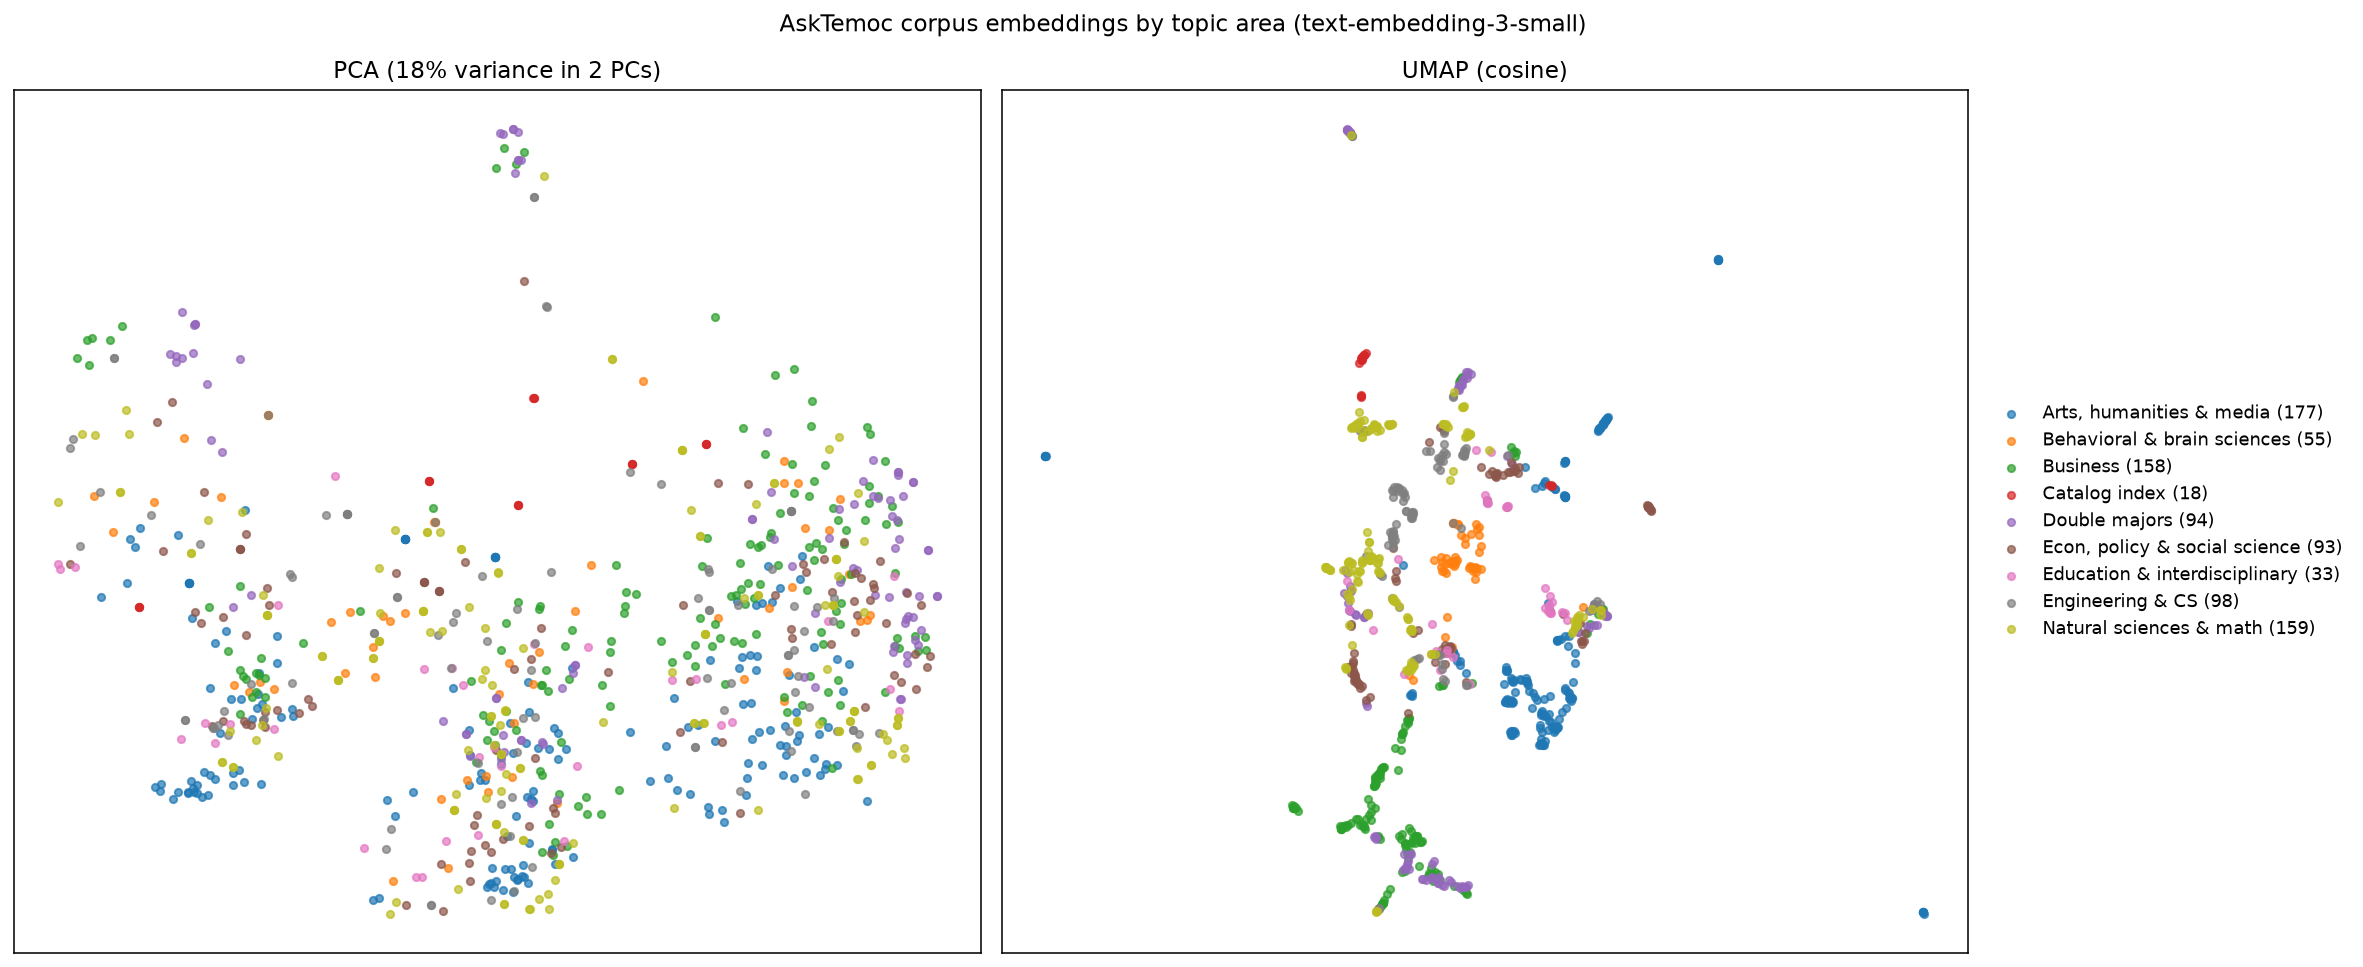
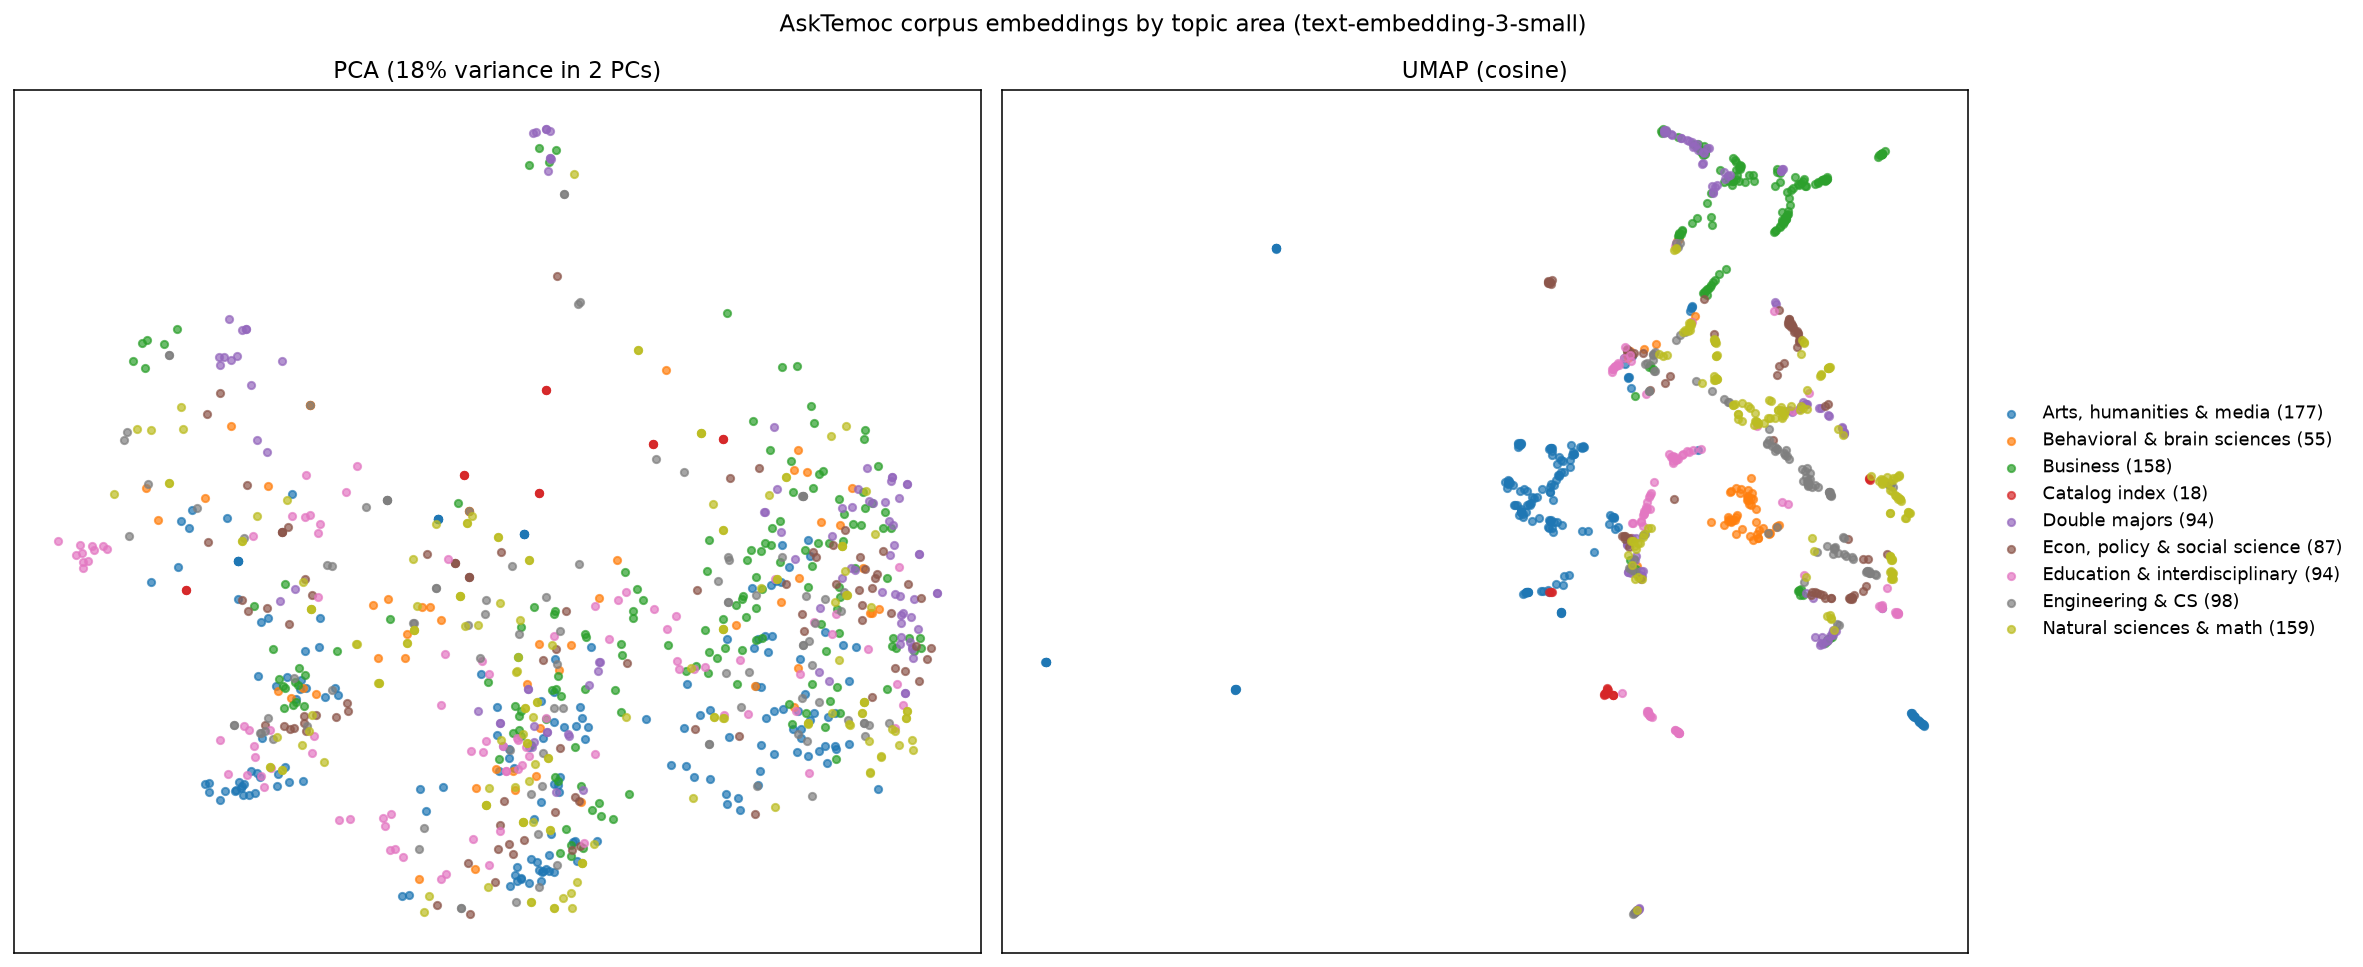
add education eval questions, refresh coverage analysis

diff --git a/backend/embedding_coverage.py b/backend/embedding_coverage.py
@@ -34,12 +34,12 @@ load_dotenv(HERE / ".env")
 TOPIC_RULES = [
     ("Catalog index", r"^(1|2|3)/"),
     ("Double majors", r"double_major"),
+    ("Education & interdisciplinary", r"education|interdisciplinary|healthcare_studies"),
     ("Engineering & CS", r"computer_science|computer_engineering|electrical|mechanical|software_eng|systems_eng|biomedical_engineering|data_science|cyber_defense|nanoscience|semiconductor|sustainable_energy"),
     ("Business", r"accounting|finance|marketing|business|supply_chain|human_resource|healthcare_management|information_systems|innovation_and_entrepreneurship|cybersecurity_and_risk"),
     ("Natural sciences & math", r"biology|chemistry|mathematics|physics|actuarial|biochemistry|biomedical_sciences|geosciences|molecular|quantum|geophysics|sustainable_earth|biomedical_data|biomedical_analytics"),
     ("Behavioral & brain sciences", r"child_learning|cognitive|neuroscience|psychology|speech|behavioral_research|biobehavioral|user_experience|ux_research|neural_net"),
     ("Econ, policy & social science", r"criminology|economics|political|public_health|sociology|geospatial|public_affairs|public_policy|sustainability_planning|compassionate|civic|military|nonprofit"),
-    ("Education & interdisciplinary", r"education|interdisciplinary|healthcare_studies"),
     ("Arts, humanities & media", r"animation|media_arts|history|latin|literature|philosophy|visual_and_performing|professional_communication|creative_writing|holocaust|legal_research|intercultural|american_studies|applied_experience"),
 ]
 

diff --git a/backend/analysis/coverage_report.md b/backend/analysis/coverage_report.md
@@ -1,6 +1,6 @@
 # Embedding coverage report
 
-Source: 885 chunk embeddings (text-embedding-3-small, 1536-dim) across 115 program folders in Neon.
+Source: 940 chunk embeddings (text-embedding-3-small, 1536-dim) across 122 program folders in Neon.
 Reproduce with `python backend/embedding_coverage.py`. Topic labels are keyword rules on the folder name, so they are approximate.
 
 Plots: `embedding_map.png` (PCA + UMAP by topic), `embedding_clusters.png` (UMAP + KMeans), `eval_coverage.png` (programs vs eval targets).
@@ -15,27 +15,29 @@ Raw numbers: `coverage_summary.json`.
 
 ## Eval coverage (programs that are the target of at least one question)
 
-| Topic | Programs | Before (Q1-Q30) | After (Q1-Q45) |
+| Topic | Programs | Before (Q1-Q30) | After (Q1-Q51) |
 |---|---|---|---|
 | Engineering & CS | 14 | 8 | 8 |
 | Natural sciences & math | 14 | 2 | 7 |
 | Business | 12 | 6 | 6 |
-| Econ, policy & social science | 15 | 3 | 7 |
+| Econ, policy & social science | 14 | 3 | 7 |
 | Arts, humanities & media | 29 | 6 | 10 |
 | Behavioral & brain sciences | 8 | 2 | 3 |
-| Education & interdisciplinary | 5 | 0 | 2 |
+| Education & interdisciplinary | 13 | 0 | 8 |
 | Double majors | 15 | 5 | 5 |
 | Catalog index | 3 | 0 | 1 |
-| Total | 115 | 32 | 49 |
+| Total | 122 | 32 | 55 |
+
+Education grew from 6 to 13 programs after the missing 4-8 and EC-6 concentration pages were added to the corpus.
 
 ## Still underrepresented
 
 - Arts, humanities & media: 19 of 29 programs untargeted, mostly the VPA, Literature, and Media Arts concentration folders.
 - Double majors: 10 of 15 untargeted.
 - Behavioral & brain sciences: 5 of 8 untargeted.
-- Four-year sample plans: 77 `example.txt` files in the corpus, only 2 questions (Q43, Q44) target them.
+- Four-year sample plans: 77 `example.txt` files in the corpus, only 3 questions (Q43, Q44, Q50) target them.
 - Catalog index folders `2/` and `3/` have no question.
 
-## Corpus issue to fix
+## Corpus note
 
-`bachelor_of_arts_in_education/requirements.txt` was a footer-only scrape and is excluded from Neon, so questions about the general BA in Education cannot be answered until it is re-scraped.
+`bachelor_of_arts_in_education/requirements.txt` is a footer-only file because the catalog URL for that page returns HTTP 404. It is excluded from Neon. The program's content is covered by its concentration pages.

diff --git a/backend/eval_questions.md b/backend/eval_questions.md
@@ -1,6 +1,6 @@
 # AskTemoc — RAG Evaluation Questions (UTD Catalog)
 
-45 ground-truth questions for evaluating retrieval quality (Q1-Q30 original set, Q31-Q45 added after the embedding coverage pass in `analysis/coverage_report.md`).
+51 ground-truth questions for evaluating retrieval quality (Q1-Q30 original set, Q31-Q51 added after the embedding coverage pass in `analysis/coverage_report.md`).
 Each question is answerable from the scraped catalog corpus in `test_output/`.
 
 Questions cover: CS/Engineering, Business (Jindal), Arts/ATEC, Natural Sciences,
@@ -191,3 +191,27 @@ Social Sciences, certificates, double majors, admissions/policy, and cross-doc c
 ## Q45
 **Which undergraduate programs at UTD have a Fast Track option?**
 *Target doc*: `1/requirements.txt` (catalog index; footnote 1 marks Fast Track programs)
+
+## Q46
+**How many credit hours and how many core curriculum hours does the BA in Education with EC-6 Core Subjects require?**
+*Target doc*: `ba_in_education_ec_6_core_subjects/requirements.txt`
+
+## Q47
+**What are the degree requirements for the BS in Education with a 4-8 Mathematics focus?**
+*Target doc*: `bs_in_education_4_8_mathematics/requirements.txt`
+
+## Q48
+**How does the BA in Education 4-8 English, Language Arts and Reading (ELAR) differ from the 4-8 Social Studies track?**
+*Target docs*: `ba_in_education_4_8_english_language_arts_and_reading_elar/requirements.txt`, `ba_in_education_4_8_social_studies/requirements.txt`
+
+## Q49
+**What are the two routes to teacher certification at UT Dallas, and which schools run them?**
+*Target docs*: any education requirements page; the text is shared across them (for example `ba_in_education_ec_6_core_subjects/requirements.txt`)
+
+## Q50
+**What does the sample four-year degree plan for the BS in Education 4-8 Science look like?**
+*Target doc*: `bs_in_education_4_8_science/example.txt`
+
+## Q51
+**What is the difference between the BA in Education 4-8 Science and the BS in Education 4-8 Science?**
+*Target docs*: `ba_in_education_4_8_science/requirements.txt`, `bs_in_education_4_8_science/requirements.txt`
